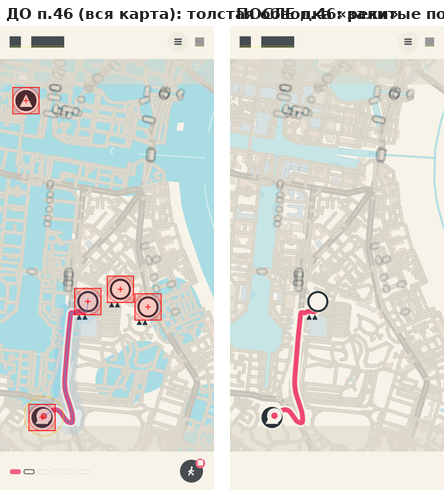
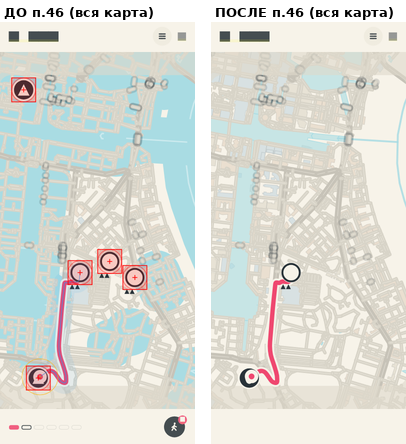
test(46): make the QA probe helper type-safe; refine before/after evidence crops

diff --git a/test/water_evidence_test.dart b/test/water_evidence_test.dart
@@ -187,13 +187,12 @@ double _distanceToRing(Offset point, List<Offset> ring) {
     final b = ring[(i + 1) % ring.length];
     final delta = b - a;
     final lengthSquared = delta.dx * delta.dx + delta.dy * delta.dy;
-    if (lengthSquared == 0) {
-      final d = (point - a).distance;
-      if (d < best) best = d;
-      continue;
+    var t = 0.0;
+    if (lengthSquared > 0) {
+      t = (((point.dx - a.dx) * delta.dx + (point.dy - a.dy) * delta.dy) / lengthSquared)
+          .clamp(0.0, 1.0)
+          .toDouble();
     }
-    final t = (((point.dx - a.dx) * delta.dx + (point.dy - a.dy) * delta.dy) / lengthSquared)
-        .clamp(0.0, 1.0);
     final d = (point - Offset(a.dx + delta.dx * t, a.dy + delta.dy * t)).distance;
     if (d < best) best = d;
   }
